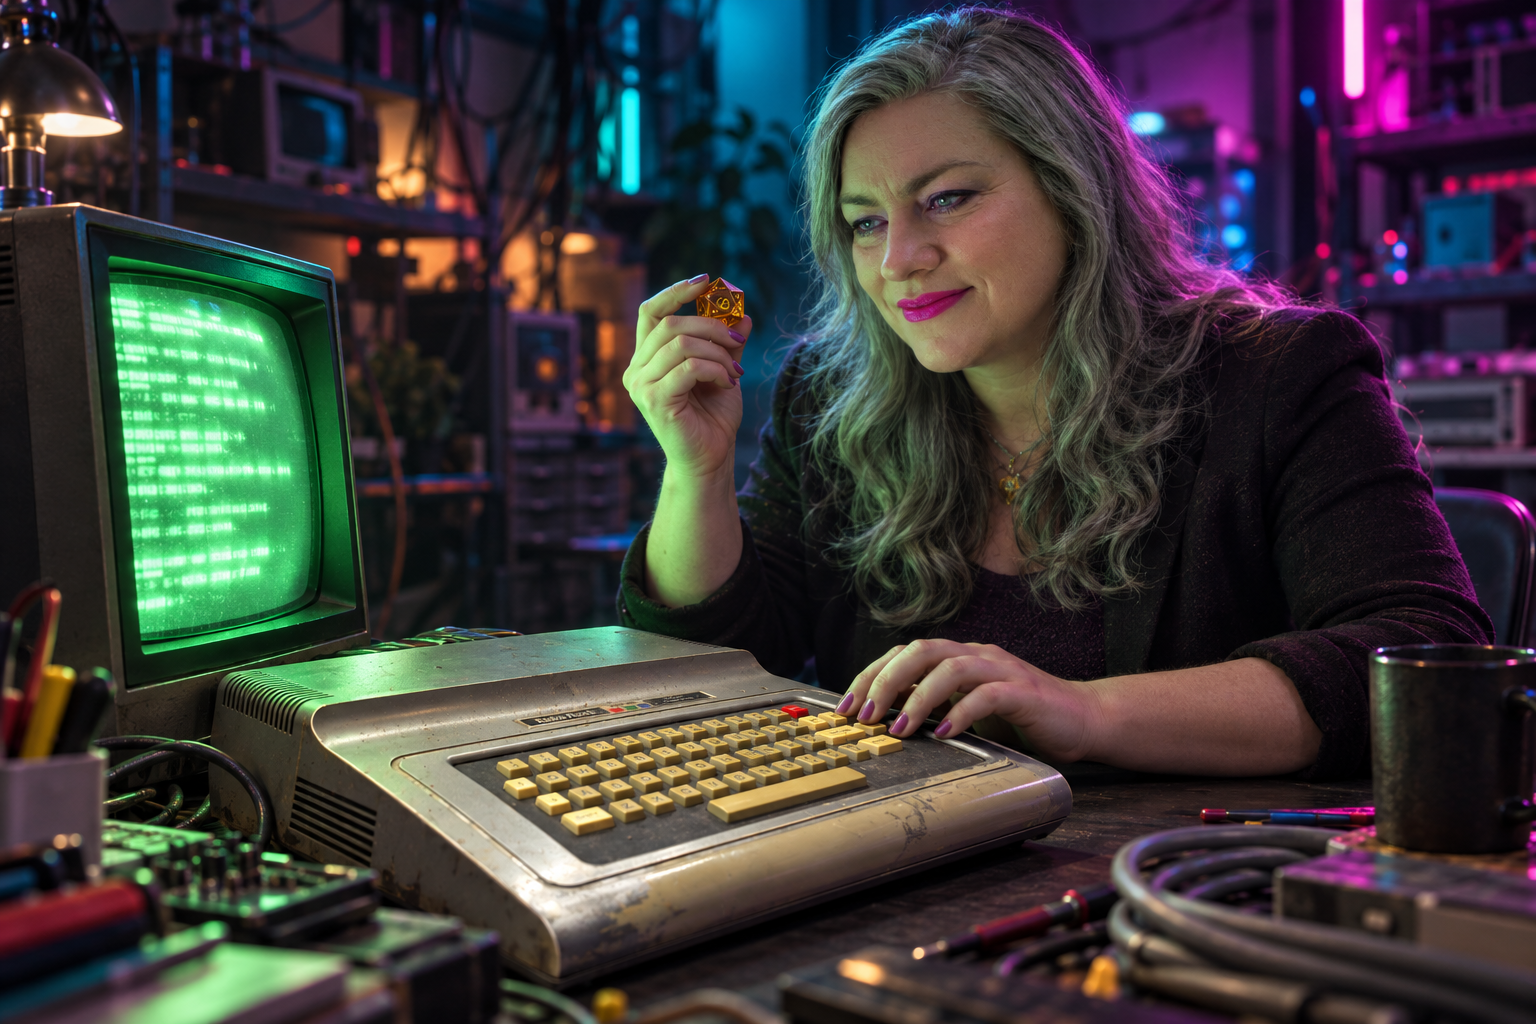
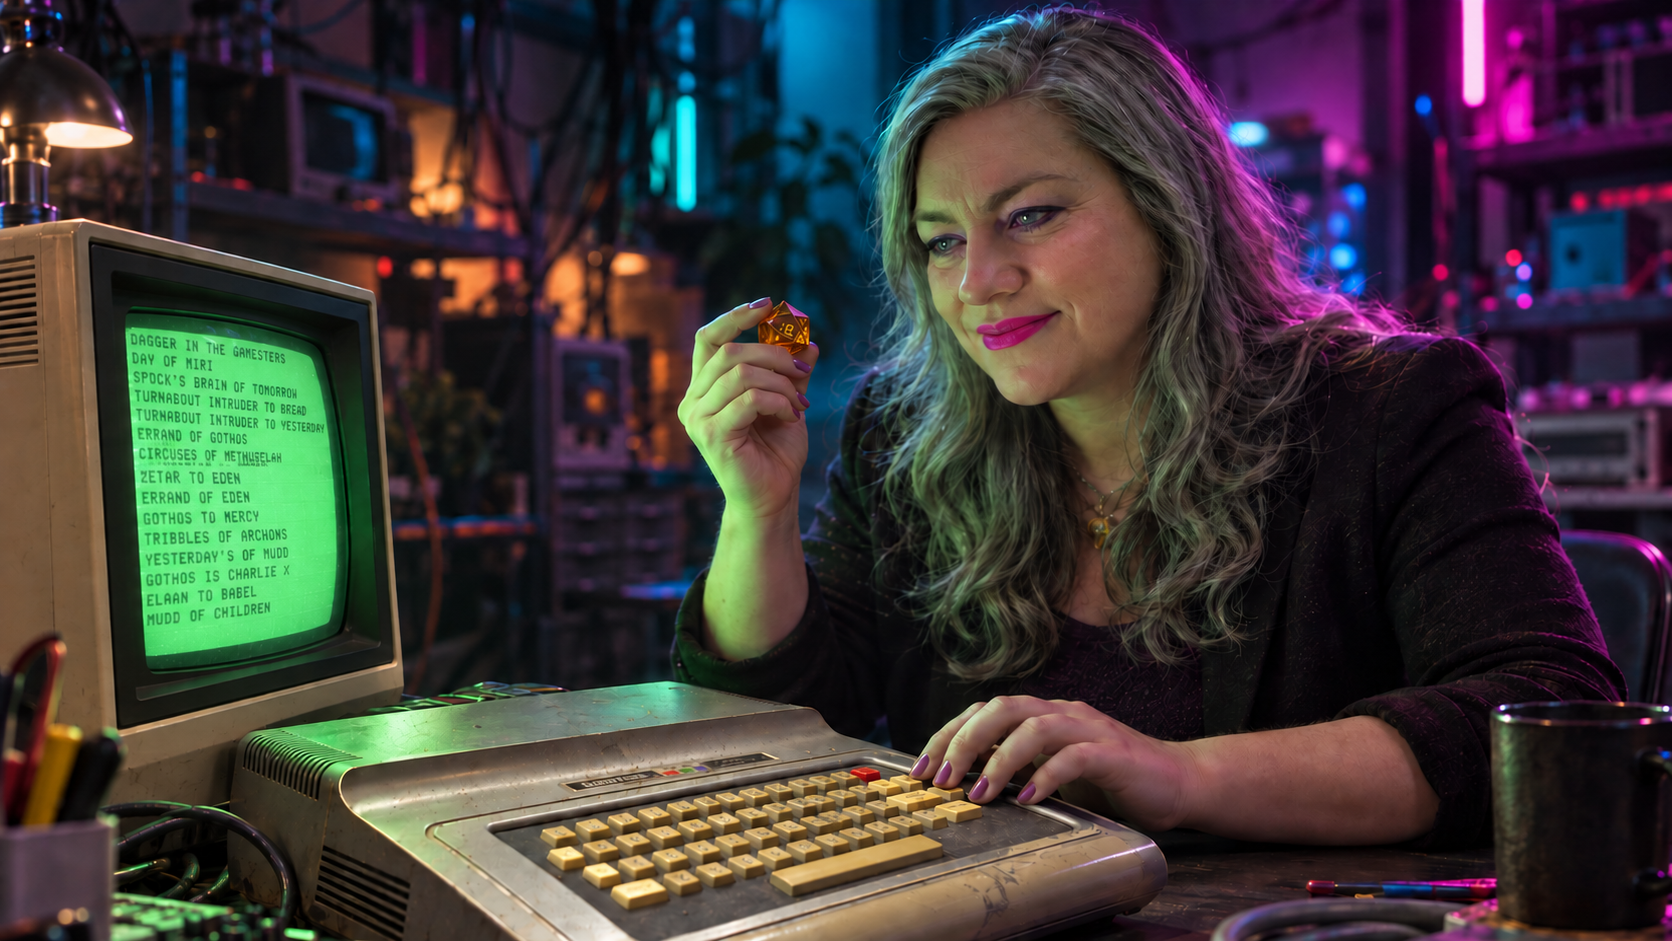
Make the CoCo screen authentic to the real display

diff --git a/posts/2026/2026-09-19-a-45-year-old-computer-learns-to-invent-computer-names.md b/posts/2026/2026-09-19-a-45-year-old-computer-learns-to-invent-computer-names.md
@@ -3,7 +3,7 @@ title: "A 45-year-old computer learns to invent computer names"
 date: 2026-09-19
 published: true
 image: "images/coco-llm-1-banner.png"
-imageAlt: "An illustration: a silver-haired woman in a dark blazer sits at a night-time workbench lit by neon, one hand on the keyboard of a worn 1981 Radio Shack Color Computer, the other holding a twenty-sided die, smiling at a small green-phosphor monitor whose text is a soft unreadable glow"
+imageAlt: "An illustration: a silver-haired woman in a dark blazer sits at a night-time workbench lit by neon, one hand on the keyboard of a worn 1981 Radio Shack Color Computer and the other holding a twenty-sided die, smiling at a beige CRT monitor showing dark blocky Star Trek episode titles on the CoCo's bright green display"
 description: "My Tandy Color Computer from 1981 starts from random numbers and, a minute later, invents computer names that never existed. Post one of five on how it does that."
 tags:
   - ai
